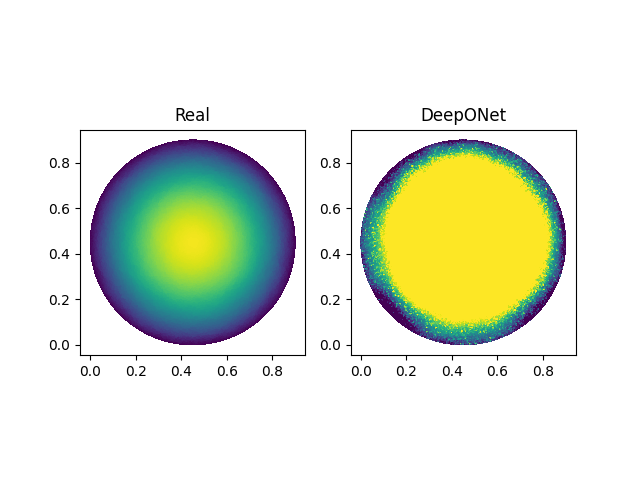
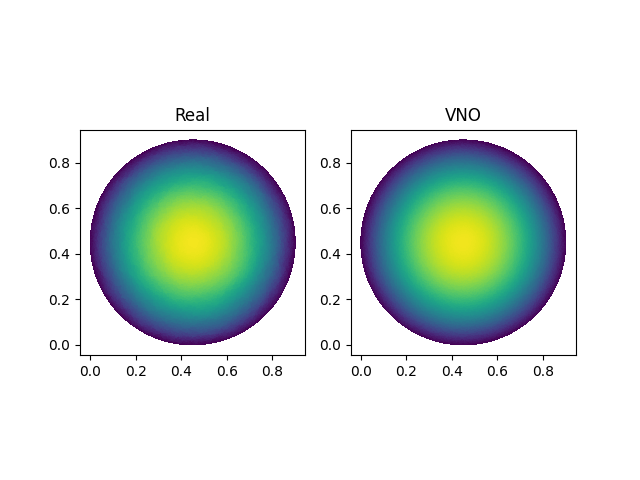
final push (for now)

Changed region(s): [[0.5625, 0.2812, 0.875, 0.7188], [0.6562, 0.2188, 0.8125, 0.25]]

diff --git a/vno.py b/vno.py
@@ -20,8 +20,8 @@ class FVFT:
         self.batch_size = x_positions.shape[0]
         self.modes = modes
 
-        self.X_ = torch.arange(modes).repeat(self.batch_size, 1)[:,:,None].float()
-        self.Y_ = torch.arange(modes).repeat(self.batch_size, 1)[:,:,None].float()
+        self.X_ = torch.arange(modes).repeat(self.batch_size, 1)[:,:,None].float().cuda()
+        self.Y_ = torch.arange(modes).repeat(self.batch_size, 1)[:,:,None].float().cuda()
 
 
         self.V_fwd_X, self.V_inv_X, self.V_fwd_Y, self.V_inv_Y = self.make_matrix()
@@ -180,23 +180,23 @@ BATCH_SIZE=1
 a=DarcyFlowCircle(BATCH_SIZE)
 triangles=a.triangles
 sc_matrix=a.sc_matrix
-points=a.points.unsqueeze(0).repeat(BATCH_SIZE,1,1)
+points=a.points.unsqueeze(0).repeat(BATCH_SIZE,1,1).cuda()
 train_dataloader=a.train_loader
 test_dataloader=a.test_loader
-model=PreVNO(12,12,100,points)
+model=PreVNO(12,12,100,points).cuda()
 
 
 model_parameters = filter(lambda p: p.requires_grad, model.parameters())
 params = sum([np.prod(p.size()) for p in model_parameters])
 print(params)
 _,a,b=a.train_dataset.tensors
-a_max=torch.max(a)
-a_min=torch.min(a)
-b_max=torch.max(b)
-b_min=torch.min(b)
+a_max=torch.max(a).cuda()
+a_min=torch.min(a).cuda()
+b_max=torch.max(b).cuda()
+b_min=torch.min(b).cuda()
 
 
-Epochs=1
+Epochs=10
 optimizer=torch.optim.Adam(model.parameters(),lr=0.001)
 loss_fn=nn.MSELoss()
 sup_m=0
@@ -207,10 +207,10 @@ for epoch in trange(Epochs):
     for batch in train_dataloader:
         optimizer.zero_grad()
         _,v,u=batch
-        v=v.reshape(v.shape[0],-1,1)
+        v=v.reshape(v.shape[0],-1,1).cuda()
+        u=u.reshape(u.shape[0],-1,1).cuda()
         v=(v-a_min)/(a_max-a_min)
         u=(u-b_min)/(b_max-b_min)
-        u=u.reshape(u.shape[0],-1,1)
         pred=model(v)
         pred=pred.reshape(pred.shape[0],-1,1)
         loss=torch.linalg.norm(pred-u)
@@ -225,8 +225,8 @@ for epoch in trange(Epochs):
             low_m+=torch.sum(torch.linalg.norm(u,axis=1)**2)/(len(train_dataloader))
     with torch.no_grad():
         print(f'Epoch: {epoch}, Loss: {torch.sqrt(sup_m/low_m)}')
-        print(np.var(pred.numpy()))
-        print(np.var(u.numpy()))
+        print(torch.var(pred))
+        print(torch.var(u))
 
 
 
@@ -242,14 +242,14 @@ low_train_loss=0
 with torch.no_grad():
     for batch in train_dataloader:
         _,v,u=batch
-        v=v.reshape(v.shape[0],-1,1)
+        v=v.reshape(v.shape[0],-1,1).cuda()
         v=(v-a_min)/(a_max-a_min)
         pred=model.forward(v)*(b_max-b_min)+b_min
         u=u.reshape(u.shape[0],-1)
         pred=pred.reshape(pred.shape[0],-1)
-        u=u.numpy()
-        pred=pred.numpy()
-        train_rel_loss+=np.mean(np.sqrt(np.diag(norm(u-pred)/np.diag(norm(u)))))/len(train_dataloader)
+        u=u.cpu().numpy()
+        pred=pred.cpu().numpy()
+        train_rel_loss+=np.mean(np.sqrt(np.diag(norm(u-pred))/np.diag(norm(u))))/len(train_dataloader)
 
 print(train_rel_loss)
 
@@ -259,13 +259,14 @@ low_test_loss=0
 with torch.no_grad():
     for batch in test_dataloader:
         _,v,u=batch
-        v=v.reshape(v.shape[0],-1,1)
+        v=v.reshape(v.shape[0],-1,1).cuda()
+        v=(v-a_min)/(a_max-a_min)
         pred=model.forward(v)*(b_max-b_min)+b_min
         u=u.reshape(u.shape[0],-1)
         pred=pred.reshape(pred.shape[0],-1)
-        u=u.numpy()
-        pred=pred.numpy()
-        test_rel_loss+=np.mean(np.sqrt(np.diag(norm(u-pred)/np.diag(norm(u)))))/len(test_dataloader)
+        u=u.cpu().numpy()
+        pred=pred.cpu().numpy()
+        test_rel_loss+=np.mean(np.sqrt(np.diag(norm(u-pred))/np.diag(norm(u))))/len(test_dataloader)
 
 
 print(test_rel_loss)
@@ -273,14 +274,14 @@ print(test_rel_loss)
 
 import matplotlib.pyplot as plt
 import matplotlib.tri as tri
-points=points.numpy().reshape(-1,2)
+points=points.cpu().numpy().reshape(-1,2)
 triang=tri.Triangulation(points[:,0],points[:,1],triangles)
 fig1, ax1 = plt.subplots(1,2)
 ax1[0].set_aspect('equal')
 ax1[0].set_title('Real')
 tpc = ax1[0].tripcolor(triang, u[-1], shading='flat',vmin=b_min,vmax=b_max)
 ax1[1].set_aspect('equal')
-ax1[1].set_title('DeepONet')
+ax1[1].set_title('VNO')
 tpc = ax1[1].tripcolor(triang, pred[-1], shading='flat',vmin=b_min,vmax=b_max)
 #fig1.colorbar(tpc)
 fig1.savefig('vno.png')

diff --git a/README.md b/README.md
@@ -9,5 +9,6 @@ performances, are summed up here.
 |   Model     |rel u train error|rel u test error| 
 |-------------|-----------------|----------------|
 |DeepONet     |9.3e-01          |9.3e-01         |
-|DeepONet-reg |4.5e-01          |4.5e-01
+|DeepONet-reg |4.5e-01          |4.5e-01         |
 |ANO          |1.2e-00          |1.2e-00         |
+|VNO          |3.7e-01          |3.7e-01         |
